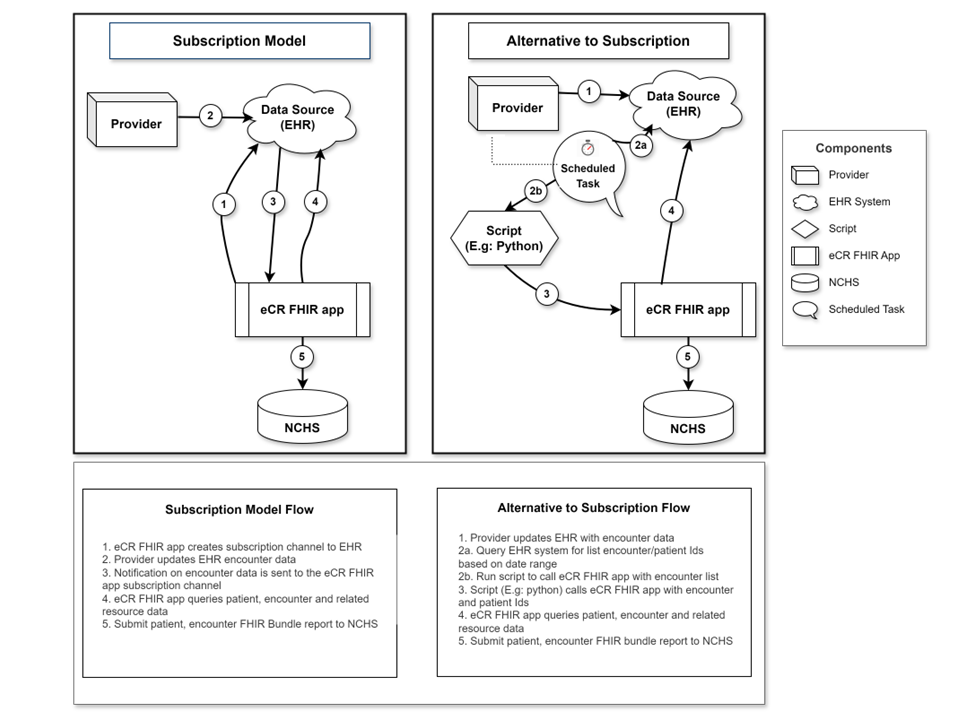
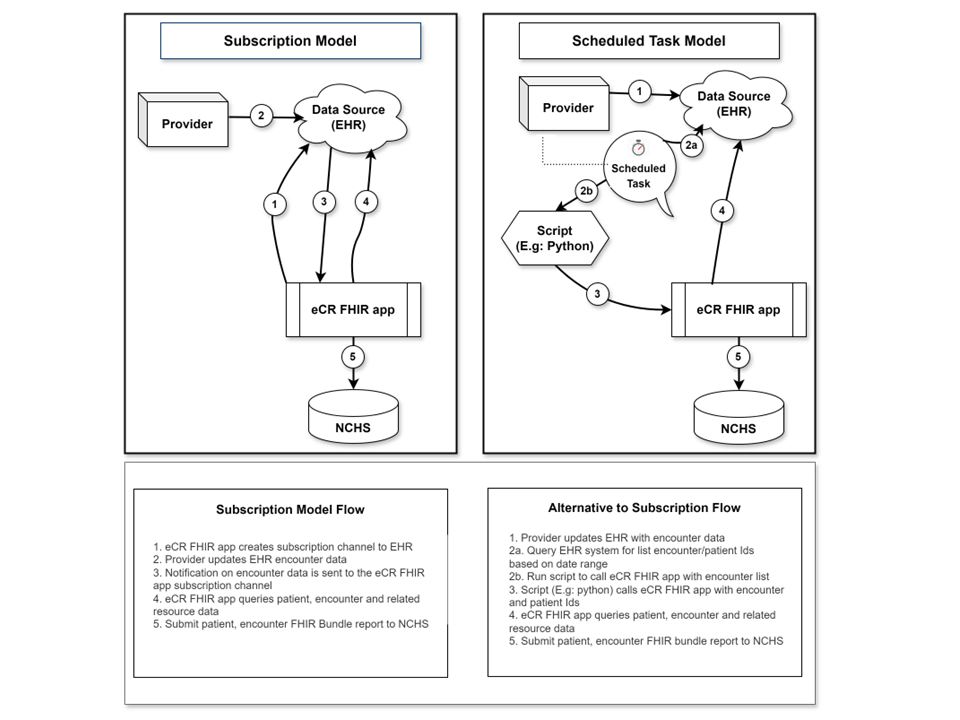
Revised Subscription Model Illustration

diff --git a/input/pagecontent/usecases.md b/input/pagecontent/usecases.md
@@ -78,12 +78,12 @@ The following is a diagram of the workflow based on the above user story used fo
 
 * Data Source (e.g., EHR, clinical data repository)
 * eCR Now FHIR App or vendor developed solution
-* NCHS Data Store acting as a Data Receiver with FHIR capabilities per the MedMorph RA IG
+* NCHS Data Store acting as a Data Receiver with FHIR capabilities
 * Knowledge Artifact Repository
 * Trust Service Provider
 
 ###### Interactions between Actors and Systems for Health Care Surveys
-This section outlines the high-level interactions between the various MedMorph Actors and Systems listed above. These interactions are shown in Figure 2.3 along with the descriptions of each step.
+This section outlines the high-level interactions between the various Actors and Systems listed above. These interactions are shown in Figure 2.3 along with the descriptions of each step.
 
 {% include img.html img="healthcare-survey-actors-and-systems.png" caption="Figure 2.3 - Healthcare Surveys Actors and Systems" %}
 
@@ -105,4 +105,5 @@ The descriptions for each step in the above diagram include:
 
 * *or vendor developed solution
 
-{% include img.html img="alternative.png" caption="Figure 2.4 - Subscription & Subscription Alternative Models" %}
+{% include img.html img="alternative.png" caption="Figure 2.4 - Subscription & Scheduled Task Notification Models" %}
+
